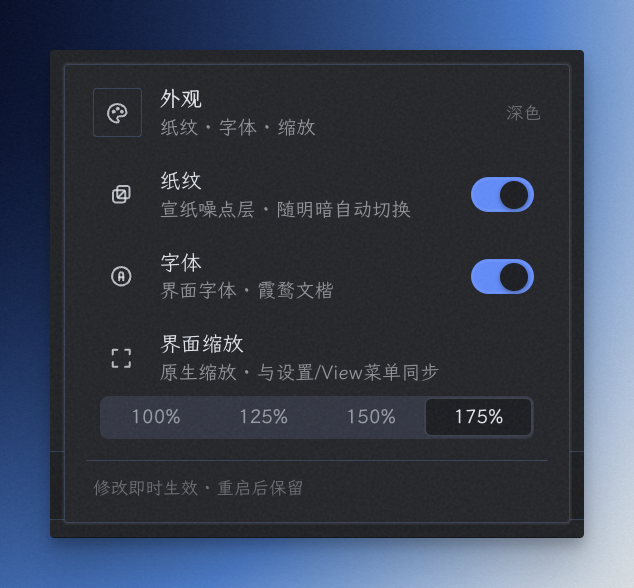
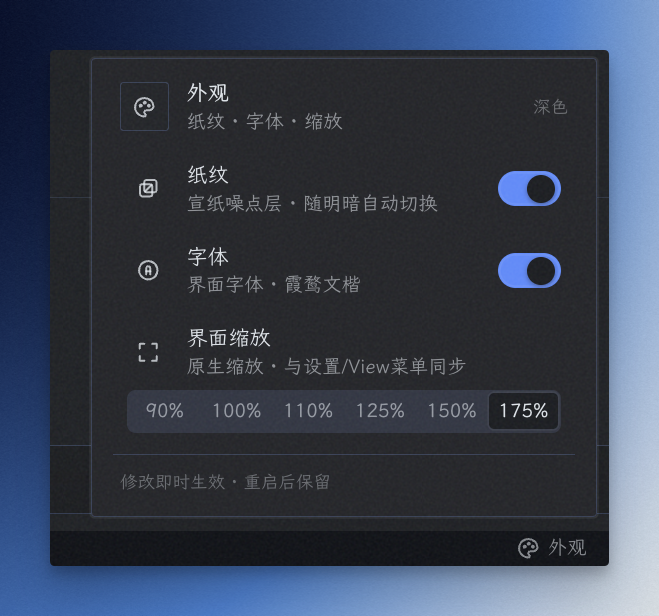
feat: 界面缩放档位对齐官方预设（90/110）+ 更新外观浮窗截图
- ZOOM_OPTIONS 对齐 Settings UI_SCALE_PRESETS：补 90%（Cmd+0 实际大小落点）与 110%，避免 Cmd+0 后无档位高亮
- README 外观浮窗图替换为六档新版截图

diff --git a/plugin.js b/plugin.js
@@ -27,10 +27,15 @@ const PAPER_KEY = 'paper.enabled'
 const FONT_KEY = 'font.enabled'
 const WELCOME_KEY = 'welcome-v1'
 
-// 界面缩放档位：直接复用 Hermes 原生预设（100/125/150/175 均为原生支持值）。
+// 界面缩放档位：直接复用 Hermes 原生预设（90/100/110/125/150/175 均为原生支持值）。
+// 与官方 Settings UI_SCALE_PRESETS 对齐（appearance-settings.tsx）——90% 是官方
+// 「实际大小」基准（Cmd+0 落点，electron/zoom.ts DEFAULT_ZOOM_LEVEL），缺了它
+// Cmd+0 后没有任何按钮高亮。
 // id 用字符串（SegmentedControl<T extends string> 要求），percent 用于调原生接口。
 const ZOOM_OPTIONS = [
+  { id: '90', label: '90%', percent: 90 },
   { id: '100', label: '100%', percent: 100 },
+  { id: '110', label: '110%', percent: 110 },
   { id: '125', label: '125%', percent: 125 },
   { id: '150', label: '150%', percent: 150 },
   { id: '175', label: '175%', percent: 175 }
